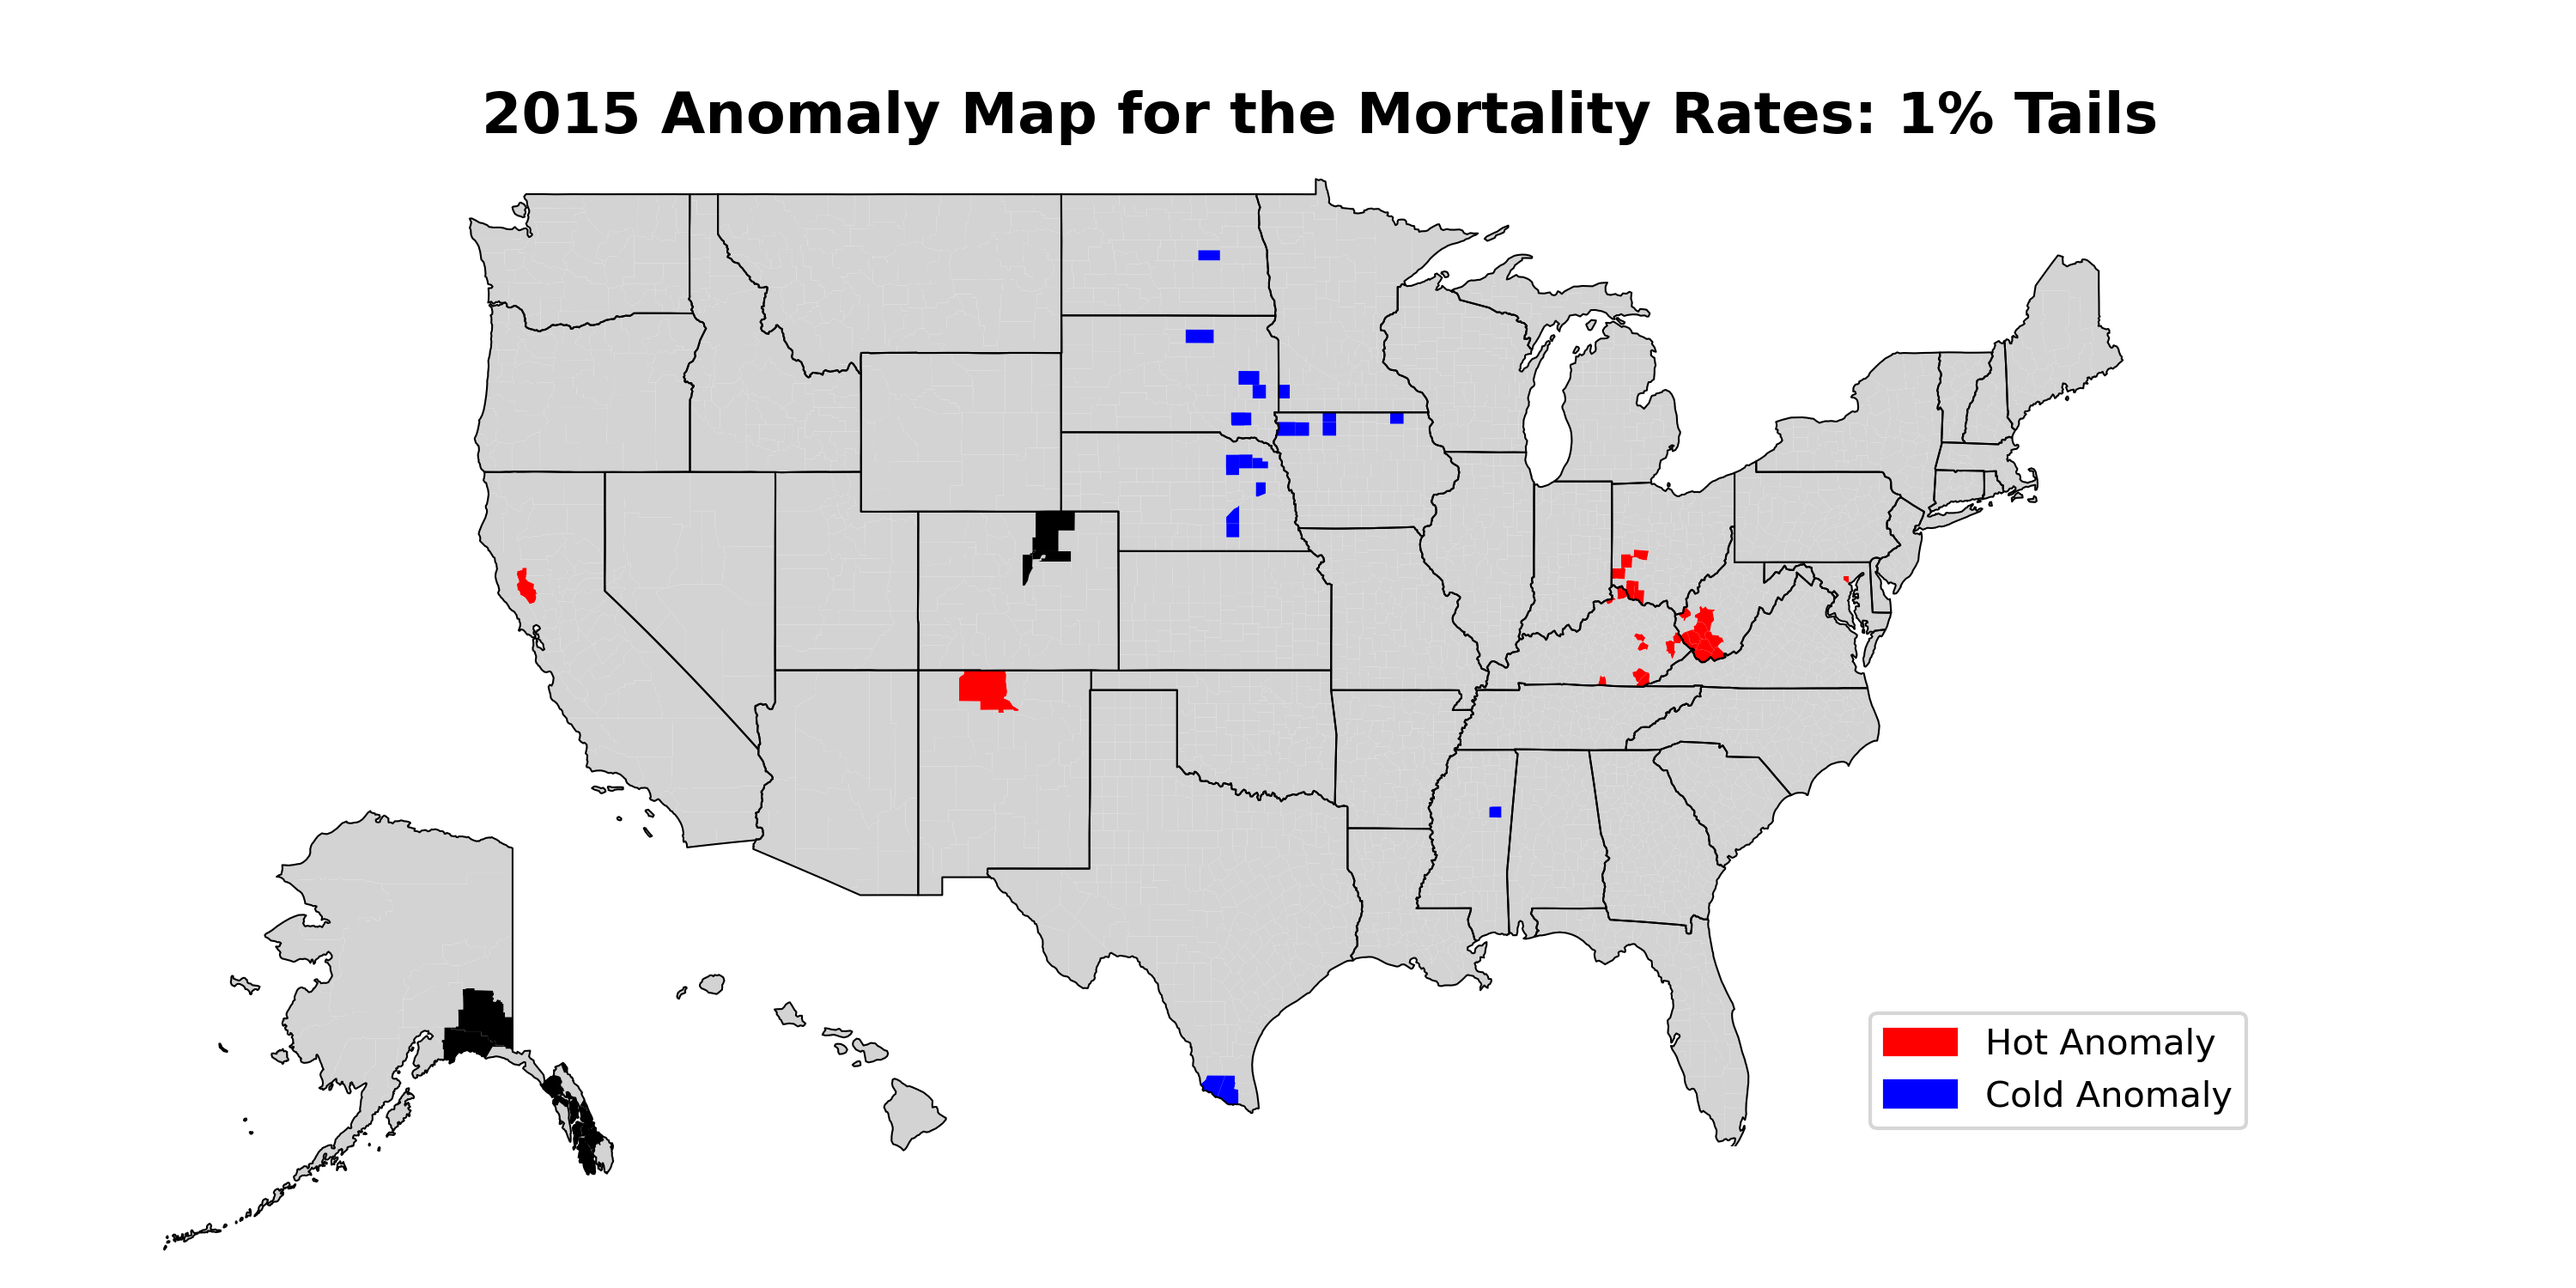
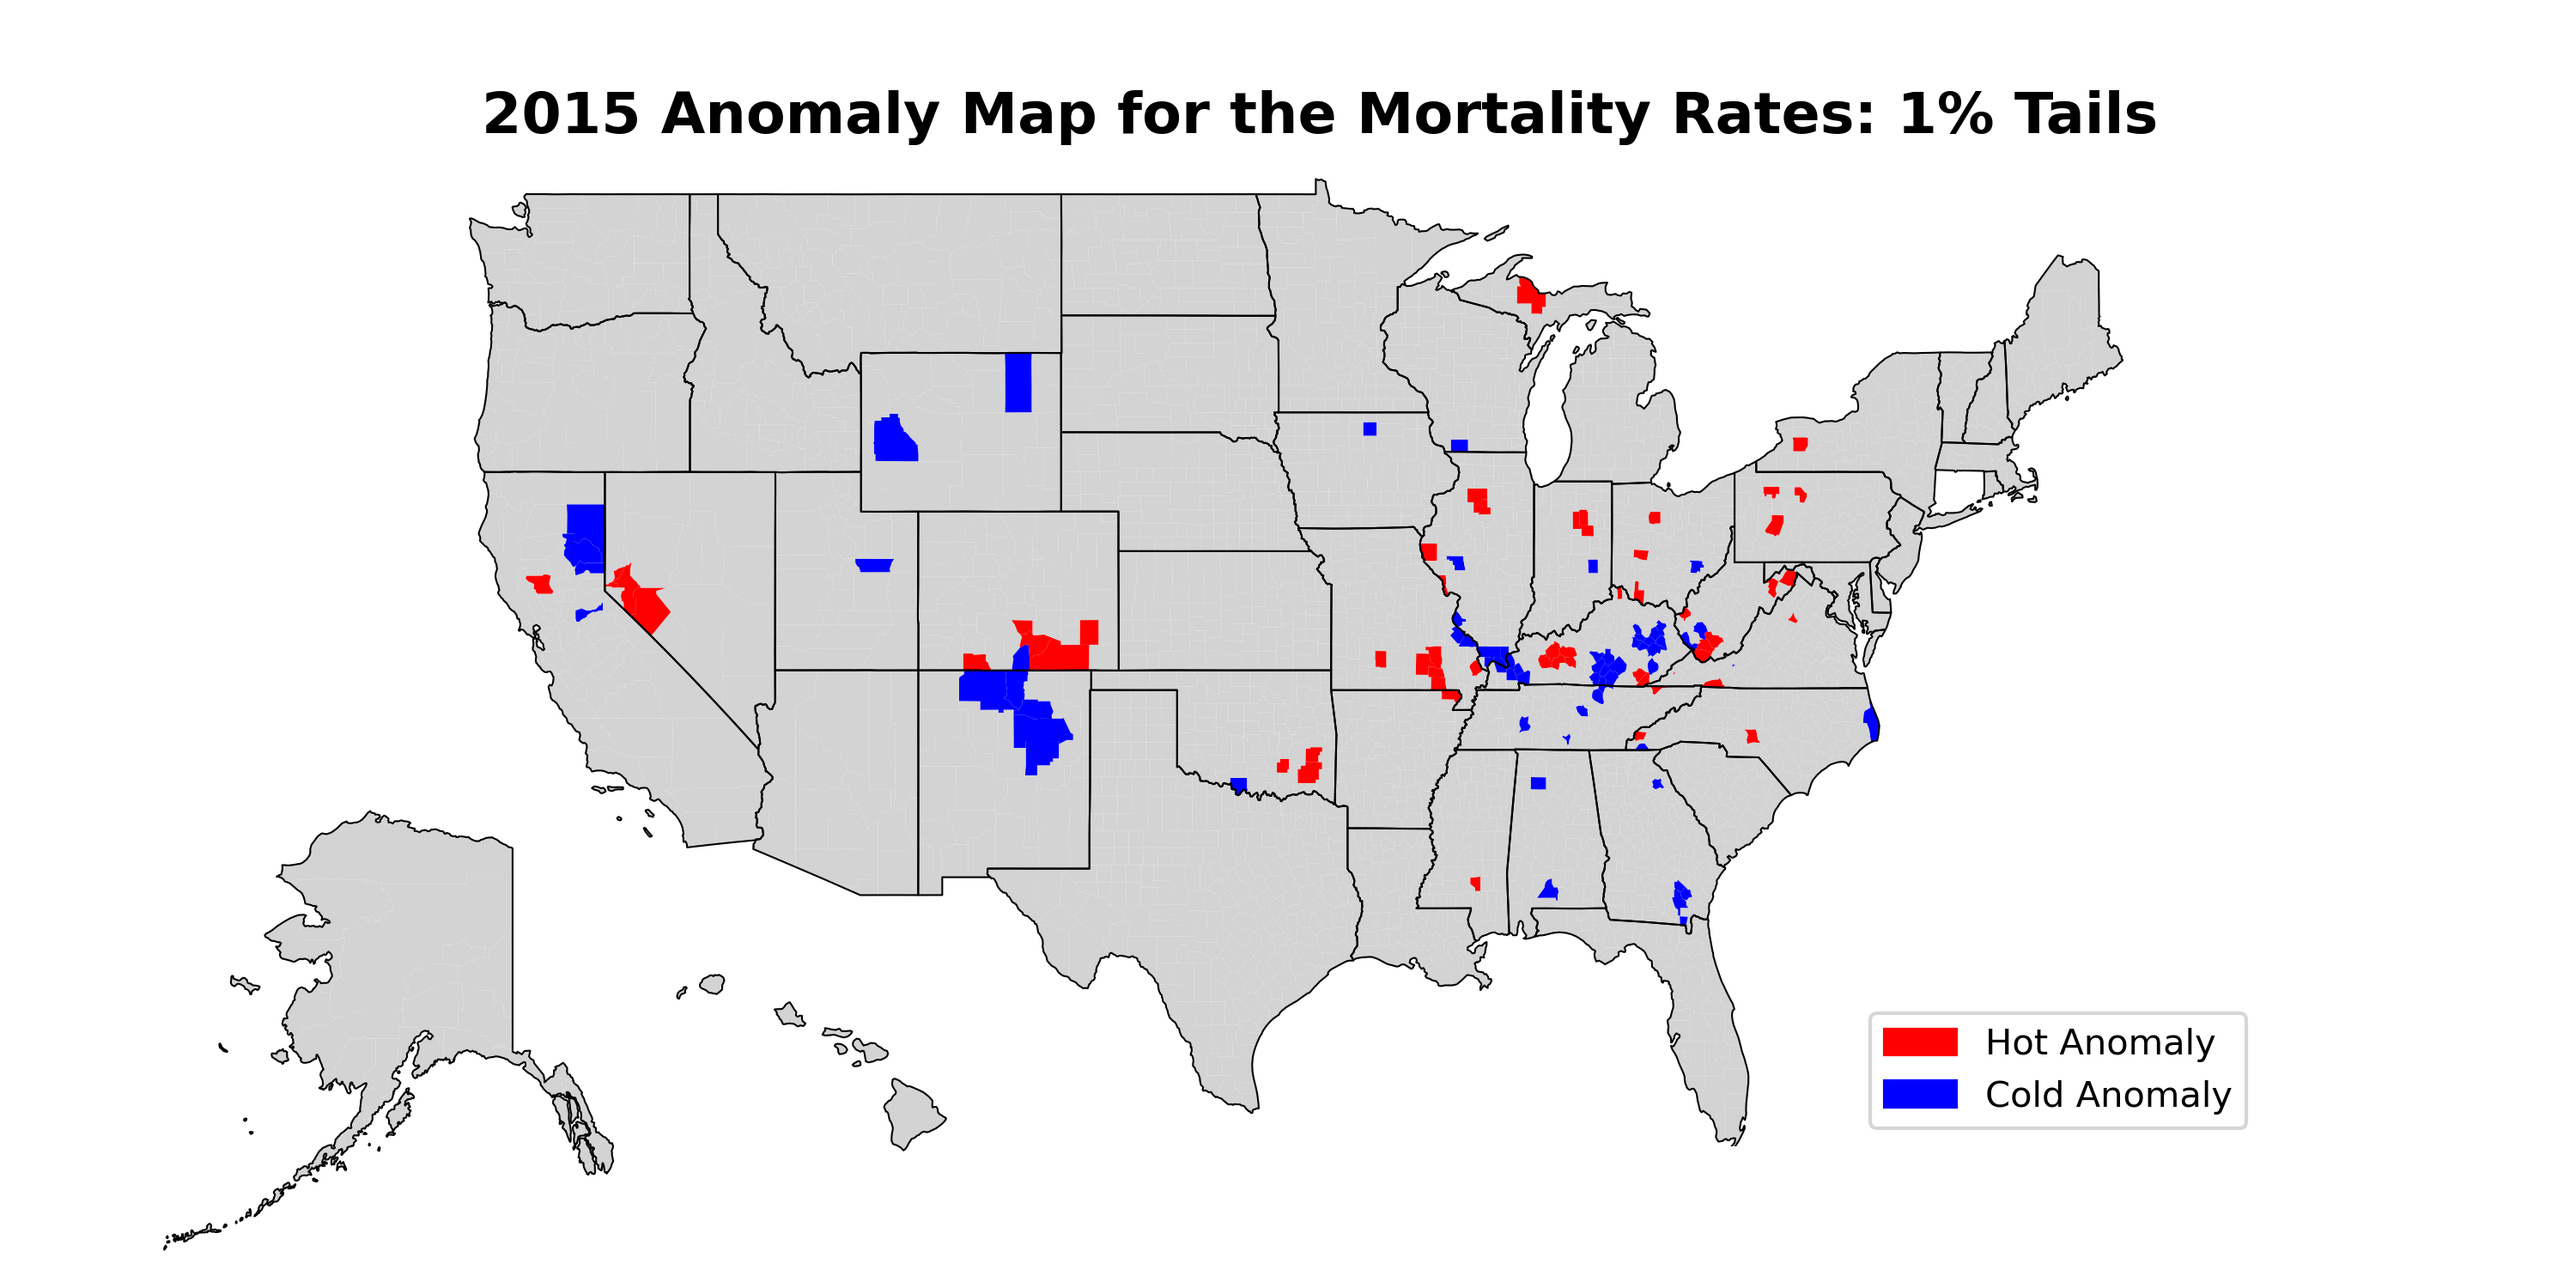
update

diff --git a/Anomalies/new_anom_maps.py b/Anomalies/new_anom_maps.py
@@ -11,7 +11,7 @@ import scipy.stats as stats
 SHAPE_PATH = '2020 USA County Shapefile/Filtered Files/2020_filtered_shapefile.shp'
 MORTALITY_PATH = 'Data/Mortality/Final Files/Mortality_final_rates.csv'
 MORTALITY_NAMES = ['FIPS'] + [f'{year} Mortality Rates' for year in range(2010, 2023)]
-TAIL = 3
+TAIL = 1
 
 def construct_output_map_path(year):
     output_map_path = f'Anomalies/Anomaly Maps/{TAIL}% Tails/{year}_{TAIL}%_tail_anomaly_map'
